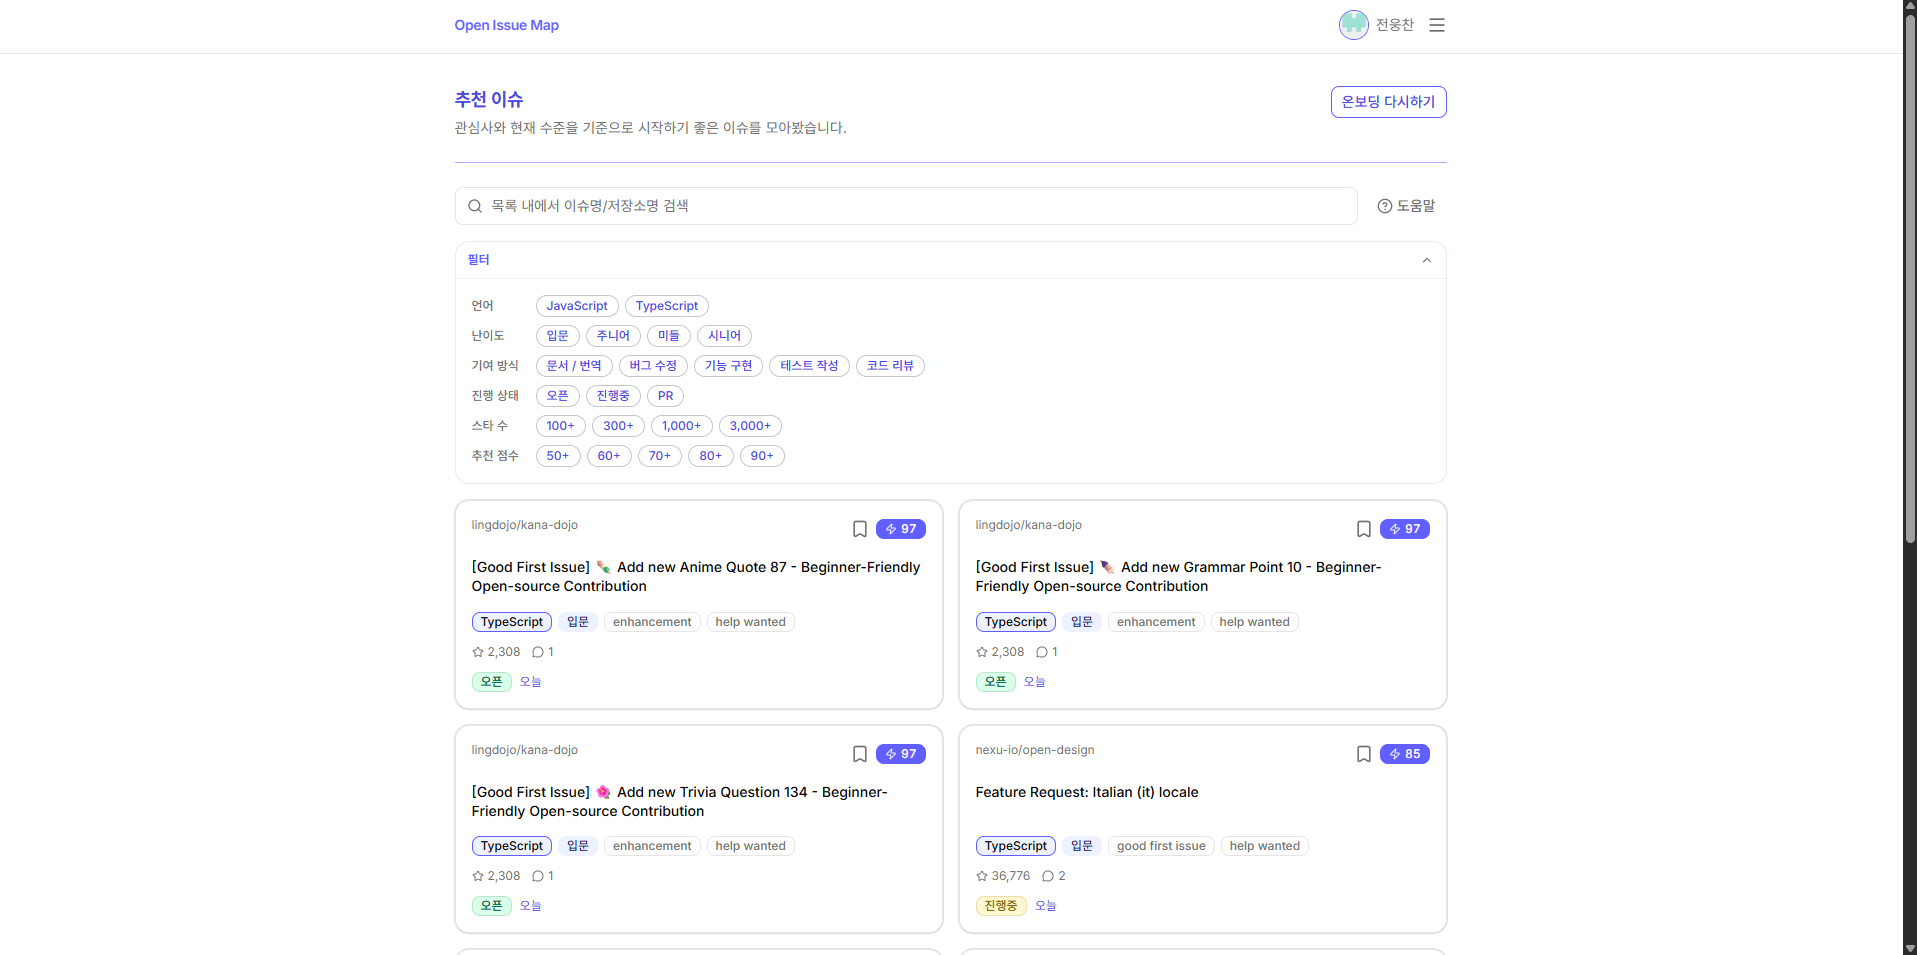
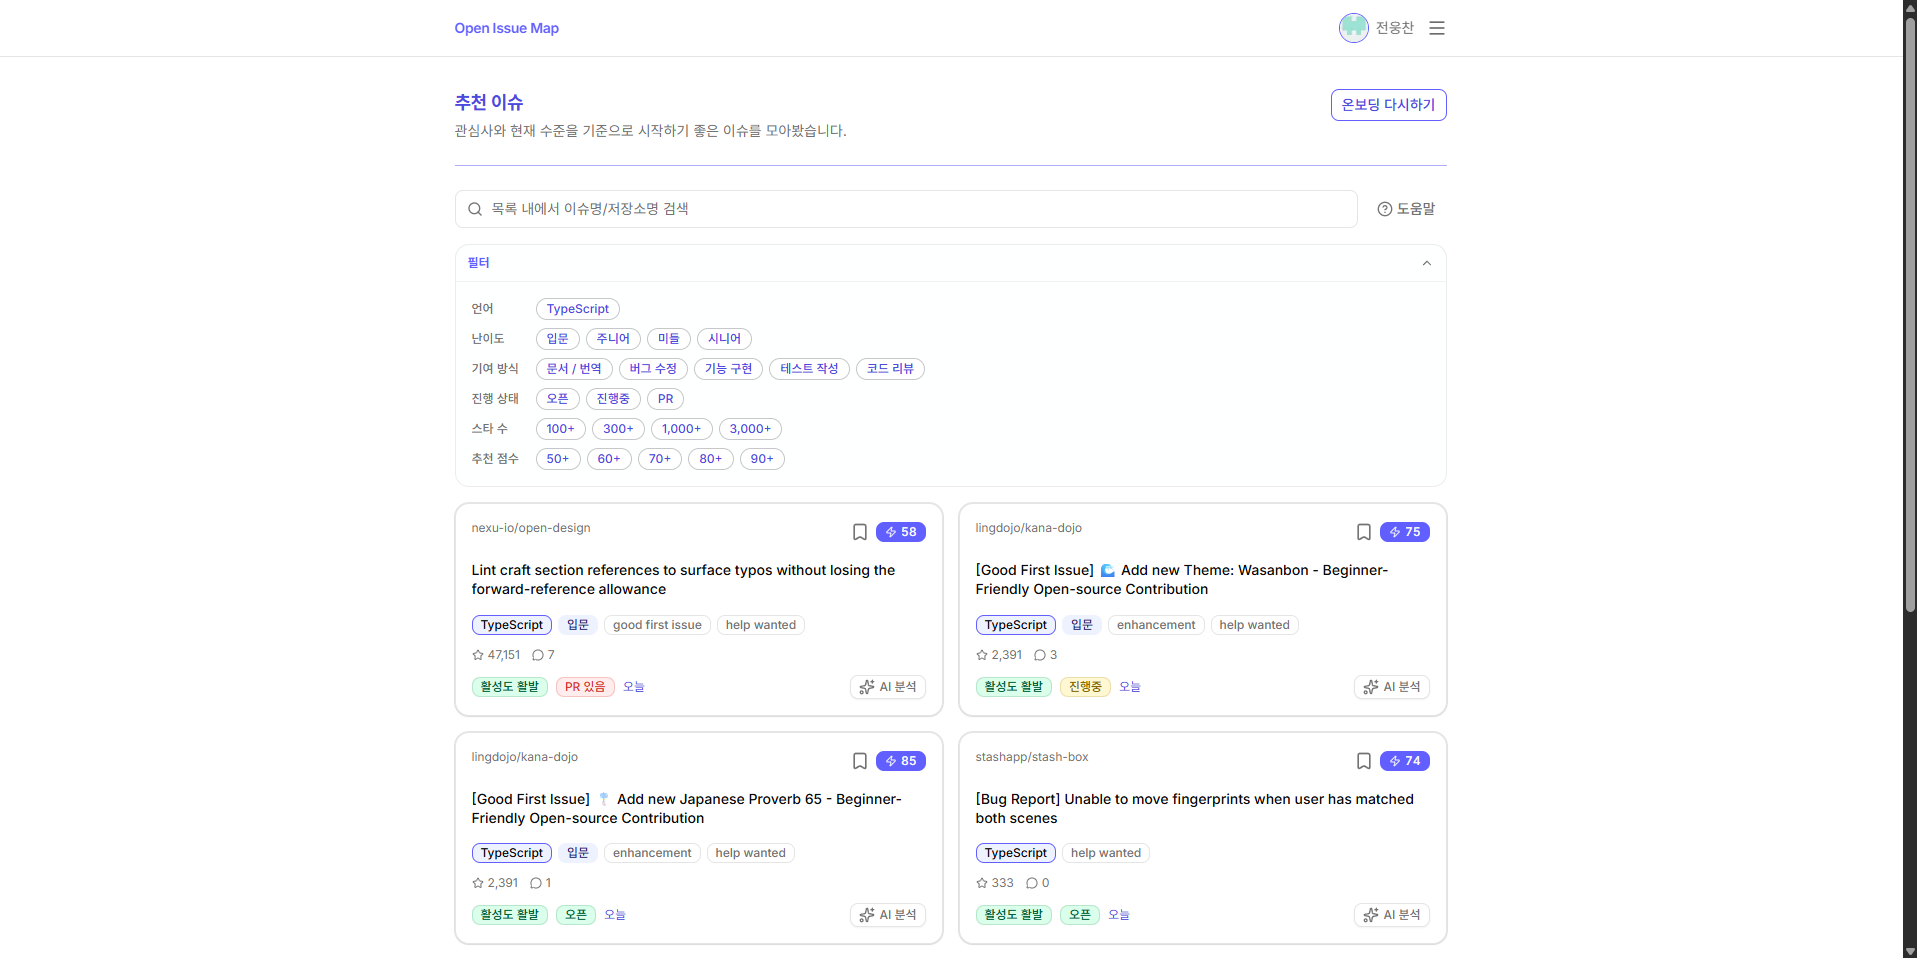
docs: README.md 업데이트

diff --git a/README.md b/README.md
@@ -24,80 +24,42 @@ GitHub 계정으로 로그인한 뒤 간단한 온보딩 정보를 입력하면,
 
 ## 기술 스택
 
-| 영역 | 기술 | 선택 이유 |
-| --- | --- | --- |
-| Framework | Next.js 15 App Router (React 19) | 서버 컴포넌트·Route Handler·인증 보호 레이아웃을 단일 앱에서 처리하기 위해 |
-| UI | Tailwind CSS v4, shadcn/ui, Radix UI | 접근성 있는 Radix primitive와 디자인 토큰 기반 스타일링으로 빠르게 일관된 UI 구성 |
-| Language | TypeScript strict | API 응답·추천 점수 모델처럼 데이터 형태가 중요한 영역에서 런타임 오류 예방 |
-| Auth | NextAuth v5, GitHub OAuth | OAuth 인증 흐름과 세션/token을 통합 관리 |
-| Database | Neon PostgreSQL | 사용자·프로필·북마크처럼 관계가 명확한 데이터를 서버리스 PostgreSQL로 관리 |
-| Server State | TanStack Query v5 | pagination·cache·mutation을 컴포넌트에서 분리해 관리 |
-| AI | Google Gemini API | 이슈 분석에 필요한 자연어 이해와 구조화된 JSON 응답을 저비용으로 처리 |
-| Validation | Zod v4 | Route Handler 입력값과 외부 API 응답을 도메인 진입 전에 명시적으로 검증 |
-| Test | Vitest | 추천 점수·필터·Route Handler·인증 테스트, ESM 모듈 테스트에 적합 |
-
----
-
-## 핵심 기술 결정
-
-포트폴리오로서 가장 의미 있는 설계 판단들을 정리합니다.
-
-### 1. 추천 알고리즘 — 왜 7개 독립 차원인가
-
-GitHub 이슈 추천은 단순 키워드 매칭으로 해결되지 않습니다. 언어가 맞아도 난이도가 높으면 초심자에게 무의미하고, 난이도가 맞아도 이미 PR이 달렸다면 기여 기회가 없습니다. 이 두 문제를 동시에 해결하기 위해 **7개 차원을 독립적으로 채점하고 합산**하는 방식을 선택했습니다.
-
-독립 차원 구조를 선택한 이유는 **확장성** 때문입니다. 각 차원이 분리되어 있으므로 가중치 조정이나 새 차원 추가가 다른 로직에 영향을 주지 않습니다. 반대로 단일 스코어링 함수로 구현했다면, 조건 추가 때마다 기존 케이스가 깨질 위험이 큽니다.
-
-### 2. GitHub API 캐싱 — 30분 TTL과 freshness vs cache 트레이드오프
-
-GitHub API의 인증 요청 rate limit은 **시간당 5,000건**입니다. 추천 이슈 1회 조회에 GraphQL 배치 요청이 발생하므로, 사용자가 새로고침할 때마다 API를 호출하면 limit이 빠르게 소진됩니다.
-
-이슈 데이터는 **실시간성보다 신선도**가 더 중요하다고 판단했습니다. GitHub 이슈 상태(열림/닫힘, 댓글 수)는 수 분 안에 극적으로 바뀌는 경우가 드물기 때문입니다. 이 판단에 근거해 서버 캐시 TTL을 **30분**으로 설정했습니다.
-
-동시에 **사용자별·언어 선택별로 캐시 키를 분리**해, A 사용자의 요청이 B 사용자의 캐시를 오염시키지 않도록 설계했습니다. 사용자가 직접 새로고침을 요청하면 캐시를 무효화할 수 있는 수동 갱신 경로도 열어두었습니다.
-
-### 3. AI Selective Inference — 비용 폭주 방지 설계
-
-대시보드의 모든 이슈를 자동으로 분석하는 **eager inference** 방식은 비용과 응답 속도 모두 비효율적입니다. 대신 **사용자가 명시적으로 AI 분석 버튼을 누른 이슈만** Gemini를 호출하는 selective inference를 채택했습니다.
-
-비용 폭주를 세 겹으로 방어했습니다.
-
-- **비로그인 한도:** 비로그인 사용자는 하루 5회까지만 허용하고, IP 기반 카운트를 DB에 저장합니다. 서버 `GITHUB_TOKEN`이 없으면 요청 자체가 차단됩니다.
-- **클라이언트 캐싱:** `staleTime: Infinity`로 같은 이슈를 세션 내에서 재분석하지 않습니다. AI 호출은 "처음 버튼을 누를 때" 딱 한 번만 발생합니다.
-- **재시도 없음:** `retry: 0`으로 실패 시 자동 재시도를 막아 장애 상황에서의 비용 증폭을 방지합니다.
-
-rule-based 추천 점수 시스템과 AI 분석은 **완전히 독립**되어 있습니다. 하나가 장애가 나도 다른 쪽에 영향이 없습니다.
+| 영역 | 기술                                   | 선택 이유 |
+| --- |--------------------------------------| --- |
+| Framework | Next.js 15 App Router (React 19)     | 서버 컴포넌트·API 서버·인증 보호 페이지를 하나의 앱에서 처리하기 위해 |
+| UI | Tailwind CSS v4, shadcn/ui, Radix UI | 접근성 기본값이 갖춰진 컴포넌트와 디자인 토큰 기반 스타일링으로 일관된 UI 구성 |
+| Language | TypeScript strict                    | API 응답·추천 점수 모델처럼 데이터 형태가 중요한 영역에서 런타임 오류 예방 |
+| Auth | NextAuth v5, GitHub OAuth            | GitHub 로그인 흐름과 세션·토큰 관리를 통합 처리 |
+| Database | Neon PostgreSQL                      | 사용자·프로필·북마크처럼 관계가 명확한 데이터를 클라우드 PostgreSQL로 관리 |
+| Server State | TanStack Query v5                    | 페이지네이션·캐시·데이터 변경을 화면 컴포넌트에서 분리해 관리 |
+| AI | Google Gemini API                    | 이슈 분석에 필요한 자연어 이해와 구조화된 JSON 응답을 저비용으로 처리 |
+| Validation | Zod v4                               | API 입력값과 외부 응답을 비즈니스 로직 진입 전에 명시적으로 검증 |
+| Test | Vitest                               | 추천 점수·필터·API·인증 로직 단위 테스트 |
+| Infra | Vercel, Cloudflare | Vercel (호스팅·CDN·서버리스), Cloudflare (DNS) |
 
 ---
 
 ## 아키텍처
 
 ```text
-Browser
-  TanStack Query — staleTime 캐싱, 무한스크롤
+[ Browser ]
+  TanStack Query     — 서버 데이터 캐시 · 무한스크롤
+  GitHub OAuth 로그인 — NextAuth 리디렉션 처리
   ↕ fetch / JSON
 
-Next.js App Router (Vercel)
-  middleware     — auth · onboarding 리다이렉트
-  Route Handlers — requireGithubToken() / auth()
-                   Zod 입력 검증 → Domain Service 호출
+[ Server ]
+  Middleware         — 로그인 여부 · 온보딩 완료 여부 확인 후 페이지 진입 허용 / 차단
+  Route Handlers     — GitHub 토큰 검증 · 요청 데이터 형식 검증
+    ↕ 함수 호출
+  Domain Services
+    추천 점수 계산   — 7차원 독립 채점
+    서버 캐시        — GitHub 응답 30분 보관
+    비로그인 AI 한도 — IP별 일일 횟수 확인 (DB)
   ↕
 
-Domain Services
-  scorer / ranking  — 7차원 추천 점수 계산
-  unstable_cache    — GitHub 응답 30분 캐싱
-  guest-usage       — 비로그인 AI 한도 체크 (IP · DB)
-  ↕
-
-GitHub API          Gemini API          Neon PostgreSQL
+[ External ]
+  GitHub API · Gemini API · Neon PostgreSQL
 ```
-
-### 계층을 나눈 이유
-
-- **Route Handler:** 클라이언트가 GitHub token이나 DB에 직접 접근하지 않도록 내부 BFF 역할을 합니다.
-- **Domain Service:** 추천 점수, PR 이력 가공, 북마크 fallback처럼 테스트가 필요한 로직을 UI와 분리했습니다.
-- **Client Hooks:** TanStack Query key, infinite query, mutation, optimistic update를 화면 컴포넌트에서 분리했습니다.
-
 ---
 
 ## AI 분석 파이프라인
@@ -108,84 +70,77 @@ AI 분석 버튼을 누르면 아래 파이프라인이 실행됩니다.
 
 ```text
 클라이언트 전송 (이슈 카드)
-  title, body, labels, language, repoFullName
+  제목, 본문, 라벨, 언어, 저장소명
 
 서버에서 추가
-  userExperienceLevel, userPurpose, userWeeklyHours  ← DB (온보딩 프로필)
-  contributingGuide                                   ← GitHub README (24시간 저장소별 캐시)
+  경험 수준, 기여 목적, 주당 투입 시간  ← DB (온보딩 프로필)
+  저장소 README  ← GitHub API (24시간 저장소별 캐시)
 ```
 
-토큰(로그인 사용자: OAuth 토큰 / 비로그인: 서버 `GITHUB_TOKEN`)으로 README를 가져옵니다. 캐시는 사용자별·저장소별로 분리되며 24시간 유지됩니다.
-
-### 전처리
+### 전처리 — 불필요한 내용 제거로 AI 입력 비용 절약
 
 ```text
-이슈 본문 → cleanIssueBody()
+이슈 본문
   코드블록 → [코드 블록 생략]
   HTML 태그·이미지·링크 URL 제거
   2,000자 제한
 
-저장소 README → cleanReadme()
-  이미지·배지([![...](url)](url)) 제거
-  링크 URL 제거, 텍스트만 유지
-  코드블록 유지 (설치·실행 명령은 기여에 유용)
+저장소 README
+  이미지·배지 제거, 링크 URL 제거
+  코드블록 유지 (설치·실행 명령은 기여에 직접 필요)
   5,000자 제한
 ```
 
 ### 프롬프트 구성
 
 ```text
-[System Prompt]
+[역할 및 응답 형식 고정]
 역할: 오픈소스 기여 실무 가이드
 응답 형식: JSON만 허용
-difficulty 기준: 이슈 절대 난이도 X — 기여자 수준 대비 상대적 난이도
+난이도 기준: 이슈 절대 난이도 X — 기여자 수준 대비 상대적 난이도
 
-[User Prompt]  buildAnalysisPrompt()로 생성
+[실제 전달 내용]
 ┌─────────────────────────────────────────────┐
 │ [기여자 정보]                                │
 │ 경험 수준: 초급 (간단한 버그·문서 경험 있음) │
 │ 기여 목적: 포트폴리오 구축                   │
 │ 주당 투입 가능 시간: 5시간                   │
 │                                             │
-│ [이슈 정보]                                  │
+│ [이슈 정보]                                  │ㄱㅈ３ㅅㄸㅎㅁㅇㄴㄷㅈ윭ㅊ
 │ 저장소: facebook/react                       │
-│ 주요 언어: TypeScript       (null이면 생략)  │
+│ 주요 언어: TypeScript       (없으면 생략)    │
 │ 라벨: bug, good first issue (없으면 생략)    │
 │ 제목: Fix login button                      │
-│ 이슈 내용: ...cleanIssueBody 처리된 본문...  │
-│                        (null이면 생략)       │
+│ 이슈 내용: ...전처리된 본문...               │
 │                                             │
 │ [프로젝트 개요 (README)]   (없으면 생략)      │
-│ ...cleanReadme 처리된 README 내용...         │
+│ ...전처리된 README 내용...                   │
 └─────────────────────────────────────────────┘
 ```
 
-### 응답 및 검증
+### 응답 검증
 
-Gemini는 `responseMimeType: application/json`으로 JSON만 반환합니다. 응답은 즉시 Zod 스키마로 런타임 검증합니다.
+Gemini에 JSON 형식 응답을 강제하고, 반환값을 즉시 규격대로 받았는지 검증합니다.
 
 ```text
-issueAnalysisSchema 검증
-  concepts:      string[]  min 2, max 4
-  scope:         string    min 1
-  startingPoints: string[] min 2, max 3
-  cautions:      string[]  min 1, max 3
-  difficulty:    '쉬움' | '보통' | '어려움'
+검증 항목
+  difficulty:     '쉬움' | '보통' | '어려움'
+  scope:          string          (예상 작업 범위)
+  concepts:       string[]  2~4개 (필요한 개념)
+  startingPoints: string[]  2~3개 (먼저 봐야 할 부분)
+  cautions:       string[]  1~3개 (주의할 점)
 ```
-
-검증 실패 시 Gemini 응답이 규격 밖임을 의미하며 500으로 처리됩니다.
-
 ---
 
 ## 추천 알고리즘 상세
 
-이슈 후보를 수집한 뒤 온보딩 프로필과 이슈 메타데이터를 **7가지 기준**으로 비교해 추천 점수를 산정합니다.
+GitHub 이슈 추천은 단순 키워드 매칭으로 해결되지 않습니다. 언어가 맞아도 난이도가 높으면 초심자에게 무의미하고, 난이도가 맞아도 이미 PR이 달렸다면 기여 기회가 없습니다. 이 두 문제를 동시에 해결하기 위해 **7개 차원을 독립적으로 채점하고 합산**하는 방식을 선택했습니다.
 
 ### 추천 흐름
 
-1. 온보딩 프로필을 로드합니다.
-2. 선호 언어를 기준으로 GitHub 이슈 후보를 언어별 병렬 조회합니다.
-3. URL 기준 중복 이슈를 제거합니다.
+1. 온보딩 프로필을 불러옵니다.
+2. 선호 언어를 기준으로 GitHub 이슈 후보를 언어별 동시 조회합니다.
+3. 중복 이슈를 제거합니다.
 4. 이슈 라벨·제목·본문·댓글 수·연결 PR 여부·저장소 정보를 기반으로 점수를 계산합니다.
 5. 추천 점수 50점 미만 이슈를 제거합니다.
 6. 사용자 필터를 적용하고 반환합니다.
@@ -194,62 +149,25 @@ issueAnalysisSchema 검증
 
 | 차원 | 최대 점수 | 기준 |
 | --- | --- | --- |
-| 언어 일치 | +28 | 선택 언어 일치 / 계열 언어 / 불일치 |
-| 난이도 적합도 | +23 | 이슈 라벨로 난이도 추정 후 경험 수준과 비교. 라벨 없으면 경험 수준별 부분 점수 |
-| 기여 방식 일치 | +16 | 라벨·제목·본문 키워드로 bug/feat/doc/test/review 감지 |
-| 경쟁도 | +8 | PR 연결 여부·댓글 수로 선점 위험 추정. 경험 수준별 보정 |
-| 기여 목적 | +14 | portfolio / growth / community 목적에 맞는 이슈 유형·저장소 우대 |
-| 투입 가능 시간 | +7 | 주당 시간(2h/5h/10h)에 맞는 난이도·방식 일치 시 가산 |
-| 저장소 인지도 | +4 | star 수 구간별 가산 (100 / 300 / 1000 / 3000+) |
+| 언어 일치 | 선택 언어 일치 / 계열 언어 / 불일치 |
+| 난이도 적합도 | 이슈 라벨로 난이도 추정 후 경험 수준과 비교. 라벨 없으면 경험 수준별 부분 점수 |
+| 기여 방식 일치 | 라벨·제목·본문 키워드로 bug / feat / doc / test / review 감지 |
+| 경쟁도 | PR 연결 여부·댓글 수로 선점 위험 추정. 경험 수준별 보정 |
+| 기여 목적 | 포트폴리오 / 성장 / 커뮤니티 목적에 맞는 이슈 유형·저장소 우대 |
+| 투입 가능 시간 | 주당 시간(2h / 5h / 10h)에 맞는 난이도·방식 일치 시 가산 |
+| 저장소 인지도 | star 수 구간별 가산 (100 / 300 / 1,000 / 3,000+) |
 
 상세 규칙은 [docs/SCORING_RULES.md](./docs/SCORING_RULES.md)에 정리했습니다.
 
 ---
 
-## 문제 해결 경험
-
-### 1. GitHub API 응답 지연 대응
-
-**문제 상황**
-
-무한스크롤로 이슈 목록을 불러올 때 매 페이지마다 평균 2.5초의 지연이 발생했습니다. Route Handler 구간별 계측 결과, 지연의 95%가 GitHub Search API 응답 대기였습니다. 나머지 구간(세션 복호화, DB 조회, 채점·필터링)의 합산은 300ms 미만으로, 코드 레벨에서 개선할 수 있는 여지가 없었습니다.
-
-**해결 방안**
-
-GitHub API 지연 자체는 줄일 수 없으므로 호출 횟수를 최소화하는 2단계 캐싱 전략을 적용했습니다.
-
-- **서버 캐싱 (`Next.js unstable_cache`):** 배치 커서 단위로 이슈 30개를 한 번에 수집한 뒤 30분간 캐싱합니다. 배치 내 페이지 이동(offset=10, 20...)은 GitHub API를 재호출하지 않습니다.
-- **클라이언트 캐싱 (`TanStack Query staleTime`):** 로드된 목록을 30분간 신선한 데이터로 간주합니다. 다른 페이지 이동 후 재진입해도 즉시 렌더링됩니다.
-
-| 요청 유형 | 응답 시간 |
-| --- | --- |
-| 배치 첫 요청: GitHub API 호출 (배치당 1회) | 2.2 ~ 2.7s |
-| 배치 내 페이지 이동: 서버 캐시 히트 | ~670ms |
-| 페이지 재진입: 클라이언트 캐시 히트 | ~660ms |
-
-### 2. GitHub API 장애 대비
-
-**문제 상황**
-
-GitHub API는 rate limit, 일시적 오류, 특정 언어 쿼리 실패처럼 부분적으로 실패하는 경우가 있습니다. 단순히 오류를 그대로 올려버리면 작은 장애도 사용자 화면 전체를 비우게 됩니다.
-
-- **추천 이슈 목록:** TypeScript·Python을 선택했을 때 Python 쿼리만 rate limit에 걸리면 TypeScript 이슈까지 사라짐
-- **북마크 목록:** GitHub API로 최신 이슈 정보를 보강하는데, API 장애 시 저장해둔 북마크가 화면에서 완전히 사라짐
-
-**해결 방안**
-
-- **`Promise.allSettled`로 언어별 쿼리 부분 실패 격리:** 일부가 실패해도 성공한 결과는 반환합니다. `partialResults: true` 플래그를 함께 내려 클라이언트가 "일부 결과입니다" 안내를 표시하도록 했습니다.
-- **북마크 최소 정보를 DB에 함께 저장:** 북마크 저장 시점에 이슈 제목과 URL을 DB에 함께 저장해 GitHub API와 무관하게 최소 정보를 유지합니다.
-
----
-
 ## 인증과 보안 설계
 
-GitHub access token은 클라이언트에 노출하지 않습니다.
+GitHub 접근 토큰은 클라이언트에 노출하지 않습니다.
 
-- GitHub OAuth 로그인은 NextAuth가 처리합니다.
-- 서버는 HttpOnly JWT 쿠키를 기반으로 session을 생성합니다.
-- GitHub API가 필요한 Route Handler는 `requireGithubToken(req)`를 통해 서버에서 token을 꺼냅니다.
+- GitHub 로그인은 NextAuth가 처리합니다.
+- 서버는 서버 전용 보안 쿠키를 기반으로 세션을 생성합니다.
+- GitHub API가 필요한 요청은 서버에서 토큰을 꺼내 사용합니다.
 - 클라이언트는 내부 API만 호출하고, GitHub API와 DB에는 직접 접근하지 않습니다.
 
 ---
@@ -258,10 +176,10 @@ GitHub access token은 클라이언트에 노출하지 않습니다.
 
 | 테이블 | 역할 |
 | --- | --- |
-| `users` | GitHub OAuth 사용자 기본 정보. GitHub id를 식별 기준으로 사용 |
-| `user_profiles` | 온보딩 설문과 추천 기준 |
-| `bookmarks` | 저장한 이슈 정보. GitHub API 장애 시 title/url로 fallback UI 구성 |
-| `ai_guest_usage` | 비로그인 AI 분석 일일 사용 횟수. IP별 관리, 24시간 TTL로 자동 초기화 |
+| `users` | GitHub 로그인 사용자 기본 정보. GitHub ID를 식별 기준으로 사용 |
+| `user_profiles` | 온보딩 설문 결과와 추천 기준 |
+| `bookmarks` | 저장한 이슈 정보. GitHub API 장애 시 제목·URL로 목록 표시 |
+| `ai_guest_usage` | 비로그인 AI 분석 일일 사용 횟수. IP별 관리, 24시간 후 자동 초기화 |
 
 ---
 
@@ -281,7 +199,7 @@ GitHub access token은 클라이언트에 노출하지 않습니다.
 
 ![대시보드화면](docs/screenshots/dashboard.png)
 
-추천 점수와 함께 저장소·제목·라벨·댓글 수·스타 수를 표시합니다. 무한스크롤과 GitHub 배치 커서 기반 페이지네이션으로 이슈를 탐색합니다.
+추천 점수와 함께 저장소·제목·라벨·댓글 수·스타 수를 표시합니다. 무한스크롤로 이슈를 탐색합니다.
 
 ### AI 작업 가이드
 
@@ -293,7 +211,7 @@ GitHub access token은 클라이언트에 노출하지 않습니다.
 
 ![북마크화면](docs/screenshots/bookmarks.png)
 
-북마크 토글은 낙관적 업데이트로 즉시 반응합니다. 저장 시점의 title/url을 DB에 보관해 GitHub API 장애 시에도 목록 확인이 가능합니다.
+북마크 토글은 즉시 반응합니다. 저장 시점의 제목·URL을 DB에 보관해 GitHub API 장애 시에도 목록 확인이 가능합니다.
 
 ### PR 히스토리
 